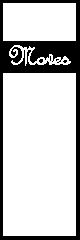
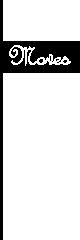
Use DrawOffset instead of DisplayOffset + Black Background during gameplay

Changed region(s): [[0.025, 0.2917, 1.0, 1.0], [0.025, 0.0, 1.0, 0.175]]

diff --git a/src/credits.cpp b/src/credits.cpp
@@ -10,7 +10,6 @@ bool CreditsInit()
 {
 	IMGCredits = loadImageAtPath("graphics/credits");
 	IMGTitleScreen = loadImageAtPath("graphics/titlescreen");
-	pd->display->setOffset(0, 0);
 	return true;
 }
 
@@ -28,14 +27,15 @@ void Credits()
 		{
 			GameState = GSTitleScreenInit;
      	}
-		
+		pd->graphics->setDrawOffset(0, 0);
+		pd->graphics->clear(kColorWhite);
 		pd->graphics->drawBitmap(IMGCredits, 0, 0, kBitmapUnflipped);
     }
 	
 	if ((GameState != GSCreditsInit) && (GameState != GSCredits))
 	{
-		pd->display->setOffset(40, 0);	
 		pd->graphics->clear(kColorWhite);
+		pd->graphics->setDrawOffset(40, 0);	
 		pd->graphics->drawBitmap(IMGTitleScreen, 0, 0, kBitmapUnflipped);
 		pd->graphics->freeBitmap(IMGCredits);
 		pd->graphics->freeBitmap(IMGTitleScreen);

diff --git a/src/main.cpp b/src/main.cpp
@@ -66,6 +66,7 @@ void destroyGame()
 
 static int mainLoop(void* ud)
 {
+	pd->graphics->setDrawOffset(40,0);
 	Input->Update();
 	switch (GameState)
 	{
@@ -125,11 +126,10 @@ int eventHandler(PlaydateAPI* playdate, PDSystemEvent event, uint32_t arg)
 	if ( event == kEventInit )
 	{
 		#ifndef SDL2API
-		eventHandler_pdnewlib(playdate, event, arg);		
+		eventHandler_pdnewlib(playdate, event, arg);
 		#endif
 		setPDPtr(playdate);
 		playdate->display->setRefreshRate(FRAMERATE);
-		playdate->display->setOffset(40,0);
 		playdate->system->setUpdateCallback(mainLoop, NULL);
 		setupGame();
 	}

diff --git a/src/cbord.cpp b/src/cbord.cpp
@@ -260,7 +260,8 @@ void CBord::Draw(LCDBitmap *Surface)
 {
     int X,Y;
     SDL_Rect Rect;
-	pd->graphics->pushContext(Surface);
+	if(Surface != NULL)
+		pd->graphics->pushContext(Surface);
     for (Y=0;Y<NrOfRows;Y++)
     {
         for (X=0;X<NrOfCols;X++)
@@ -292,7 +293,8 @@ void CBord::Draw(LCDBitmap *Surface)
             }
         }
     }
-	pd->graphics->popContext();
+	if(Surface != NULL)
+		pd->graphics->popContext();
 }
 
 int CBord::GetBordValue(int X,int Y)

diff --git a/src/titlescreen.cpp b/src/titlescreen.cpp
@@ -1,4 +1,5 @@
 #include <pd_api.h>
+#include "pd_helperfuncs.h"
 #include "caudio.h"
 #include "common.h"
 #include "cmainmenu.h"
@@ -45,7 +46,8 @@ void TitleScreen()
 					break;
             }
 		}
-        Menu->Draw(NULL);        
+		pd->graphics->clear(kColorWhite);
+        Menu->Draw(NULL);
     }
 
 	if ((GameState != GSTitleScreen) && (GameState != GSTitleScreenInit))

diff --git a/src/game.cpp b/src/game.cpp
@@ -633,9 +633,11 @@ void Game()
 			else
 				GameState = GSTitleScreenInit;
 		}
+		pd->graphics->clear(kColorBlack);
 		Bord->Draw(NULL);
 		if (!Bord->GameEnded())
 			Selector->Draw(NULL, Bord);
+
 		pd->graphics->drawBitmap(IMGPanel, 240, 0, kBitmapUnflipped);
 		if(PlayerNr == Human)
 			pd->graphics->drawBitmap(IMGPlayer, 245, 5, kBitmapUnflipped);
